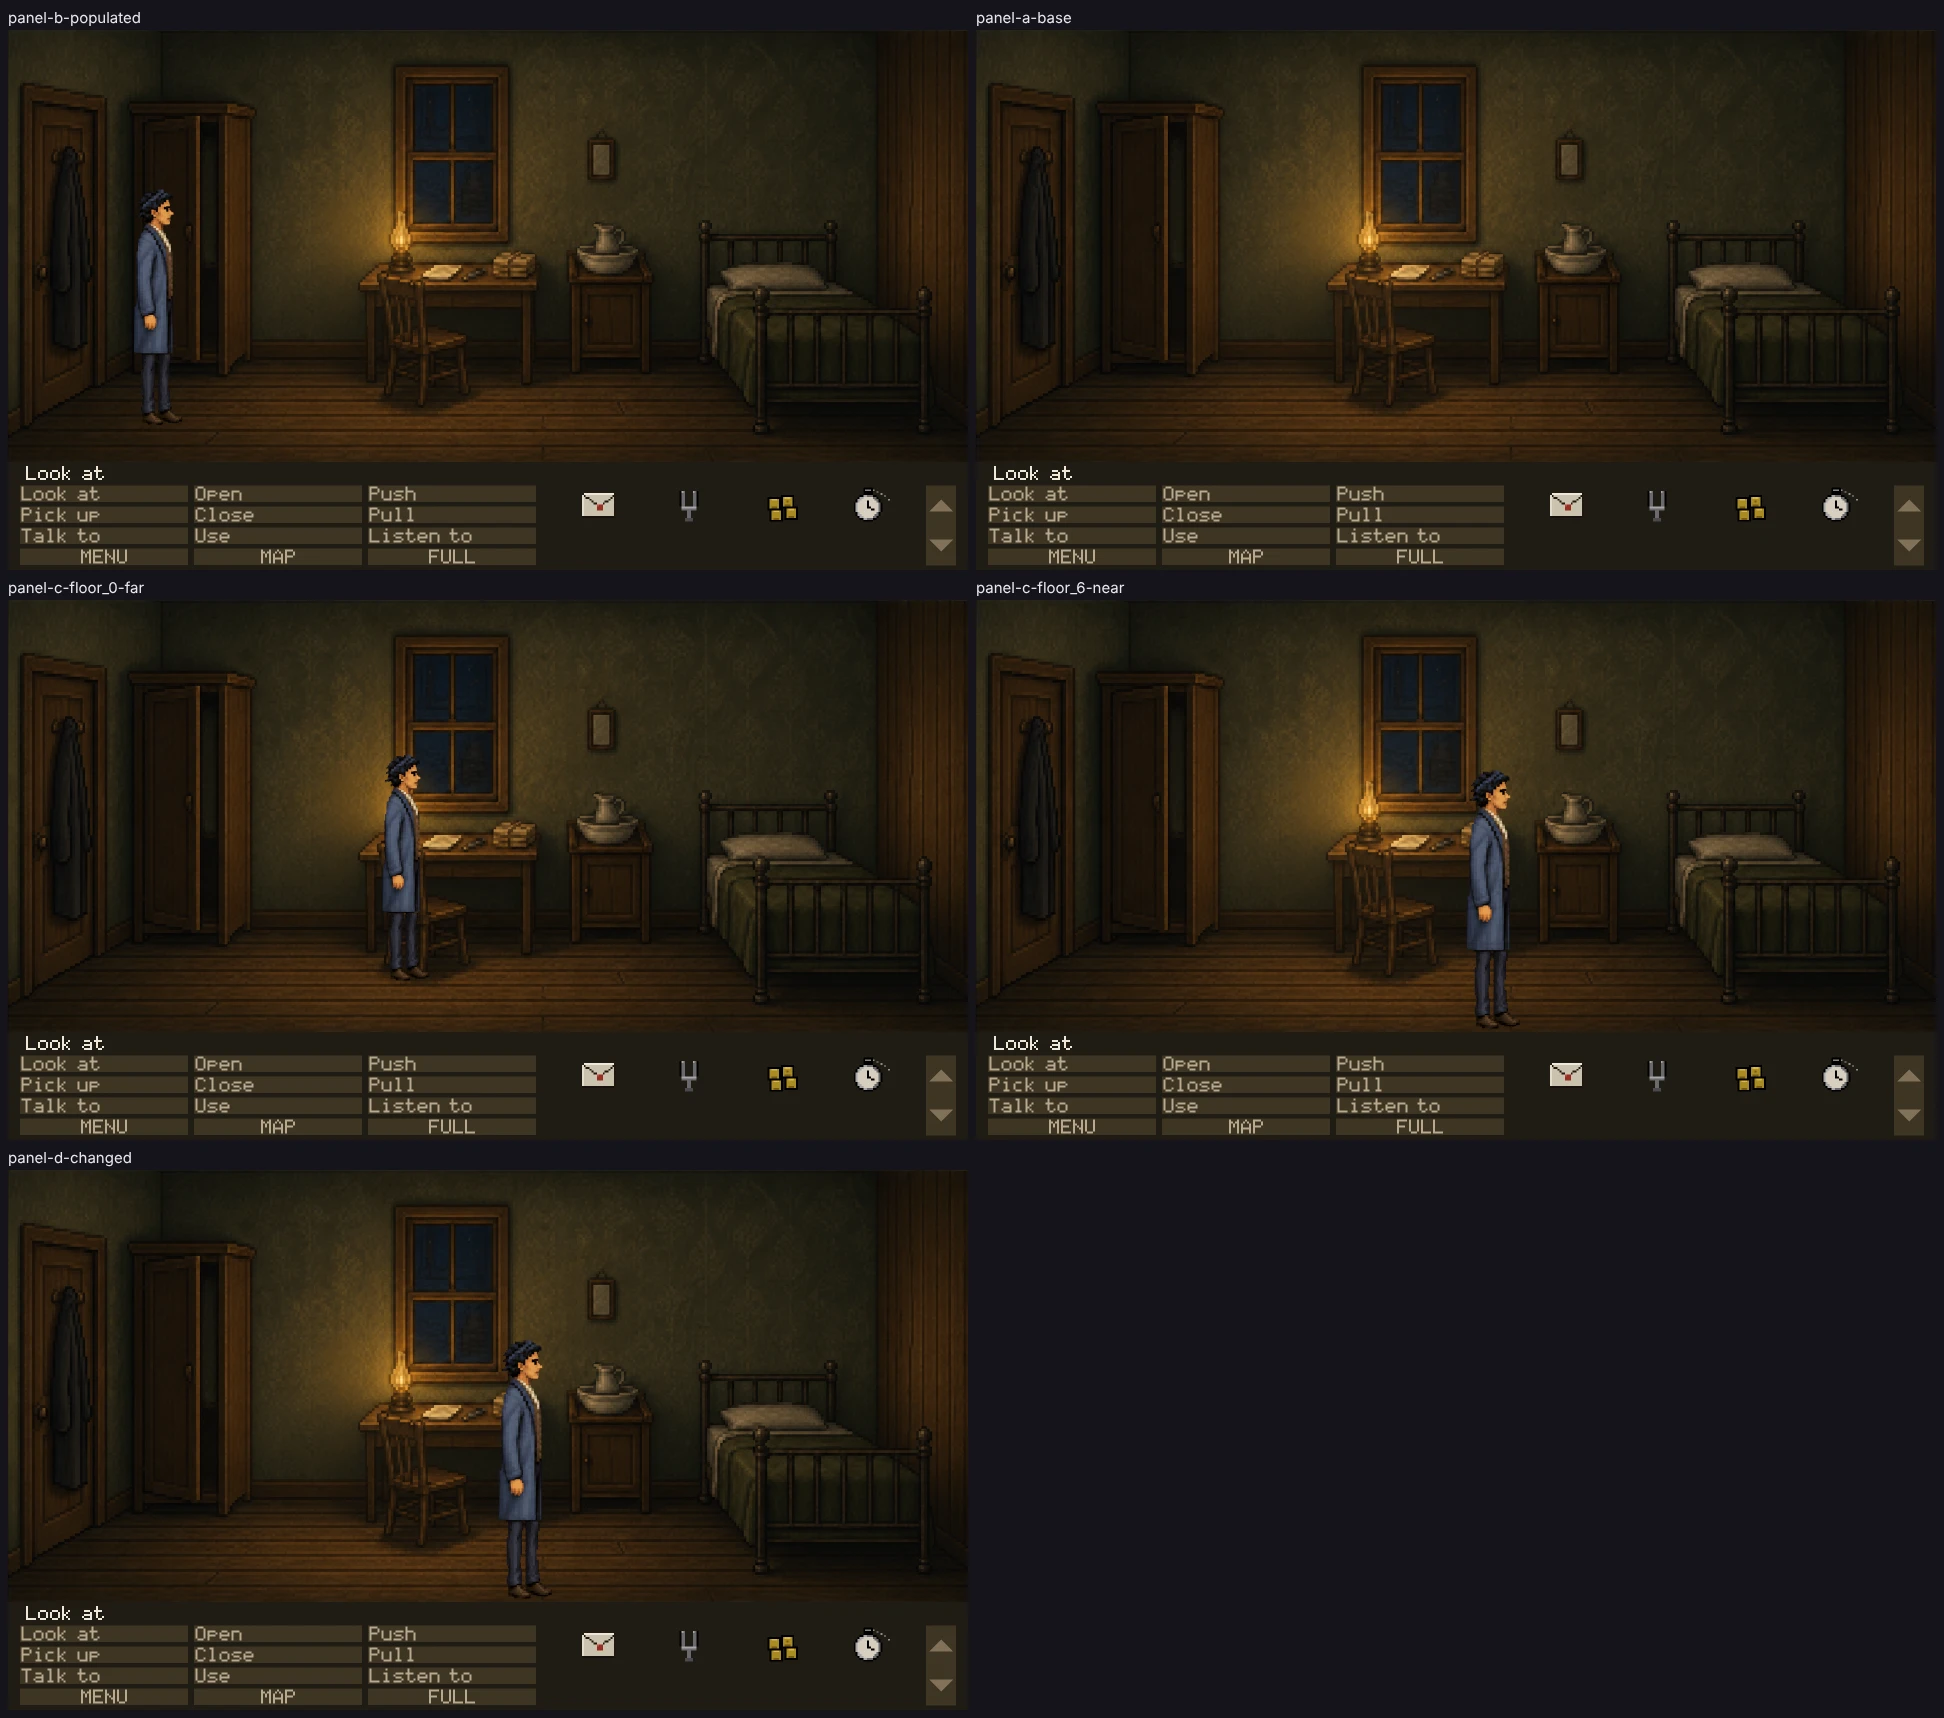
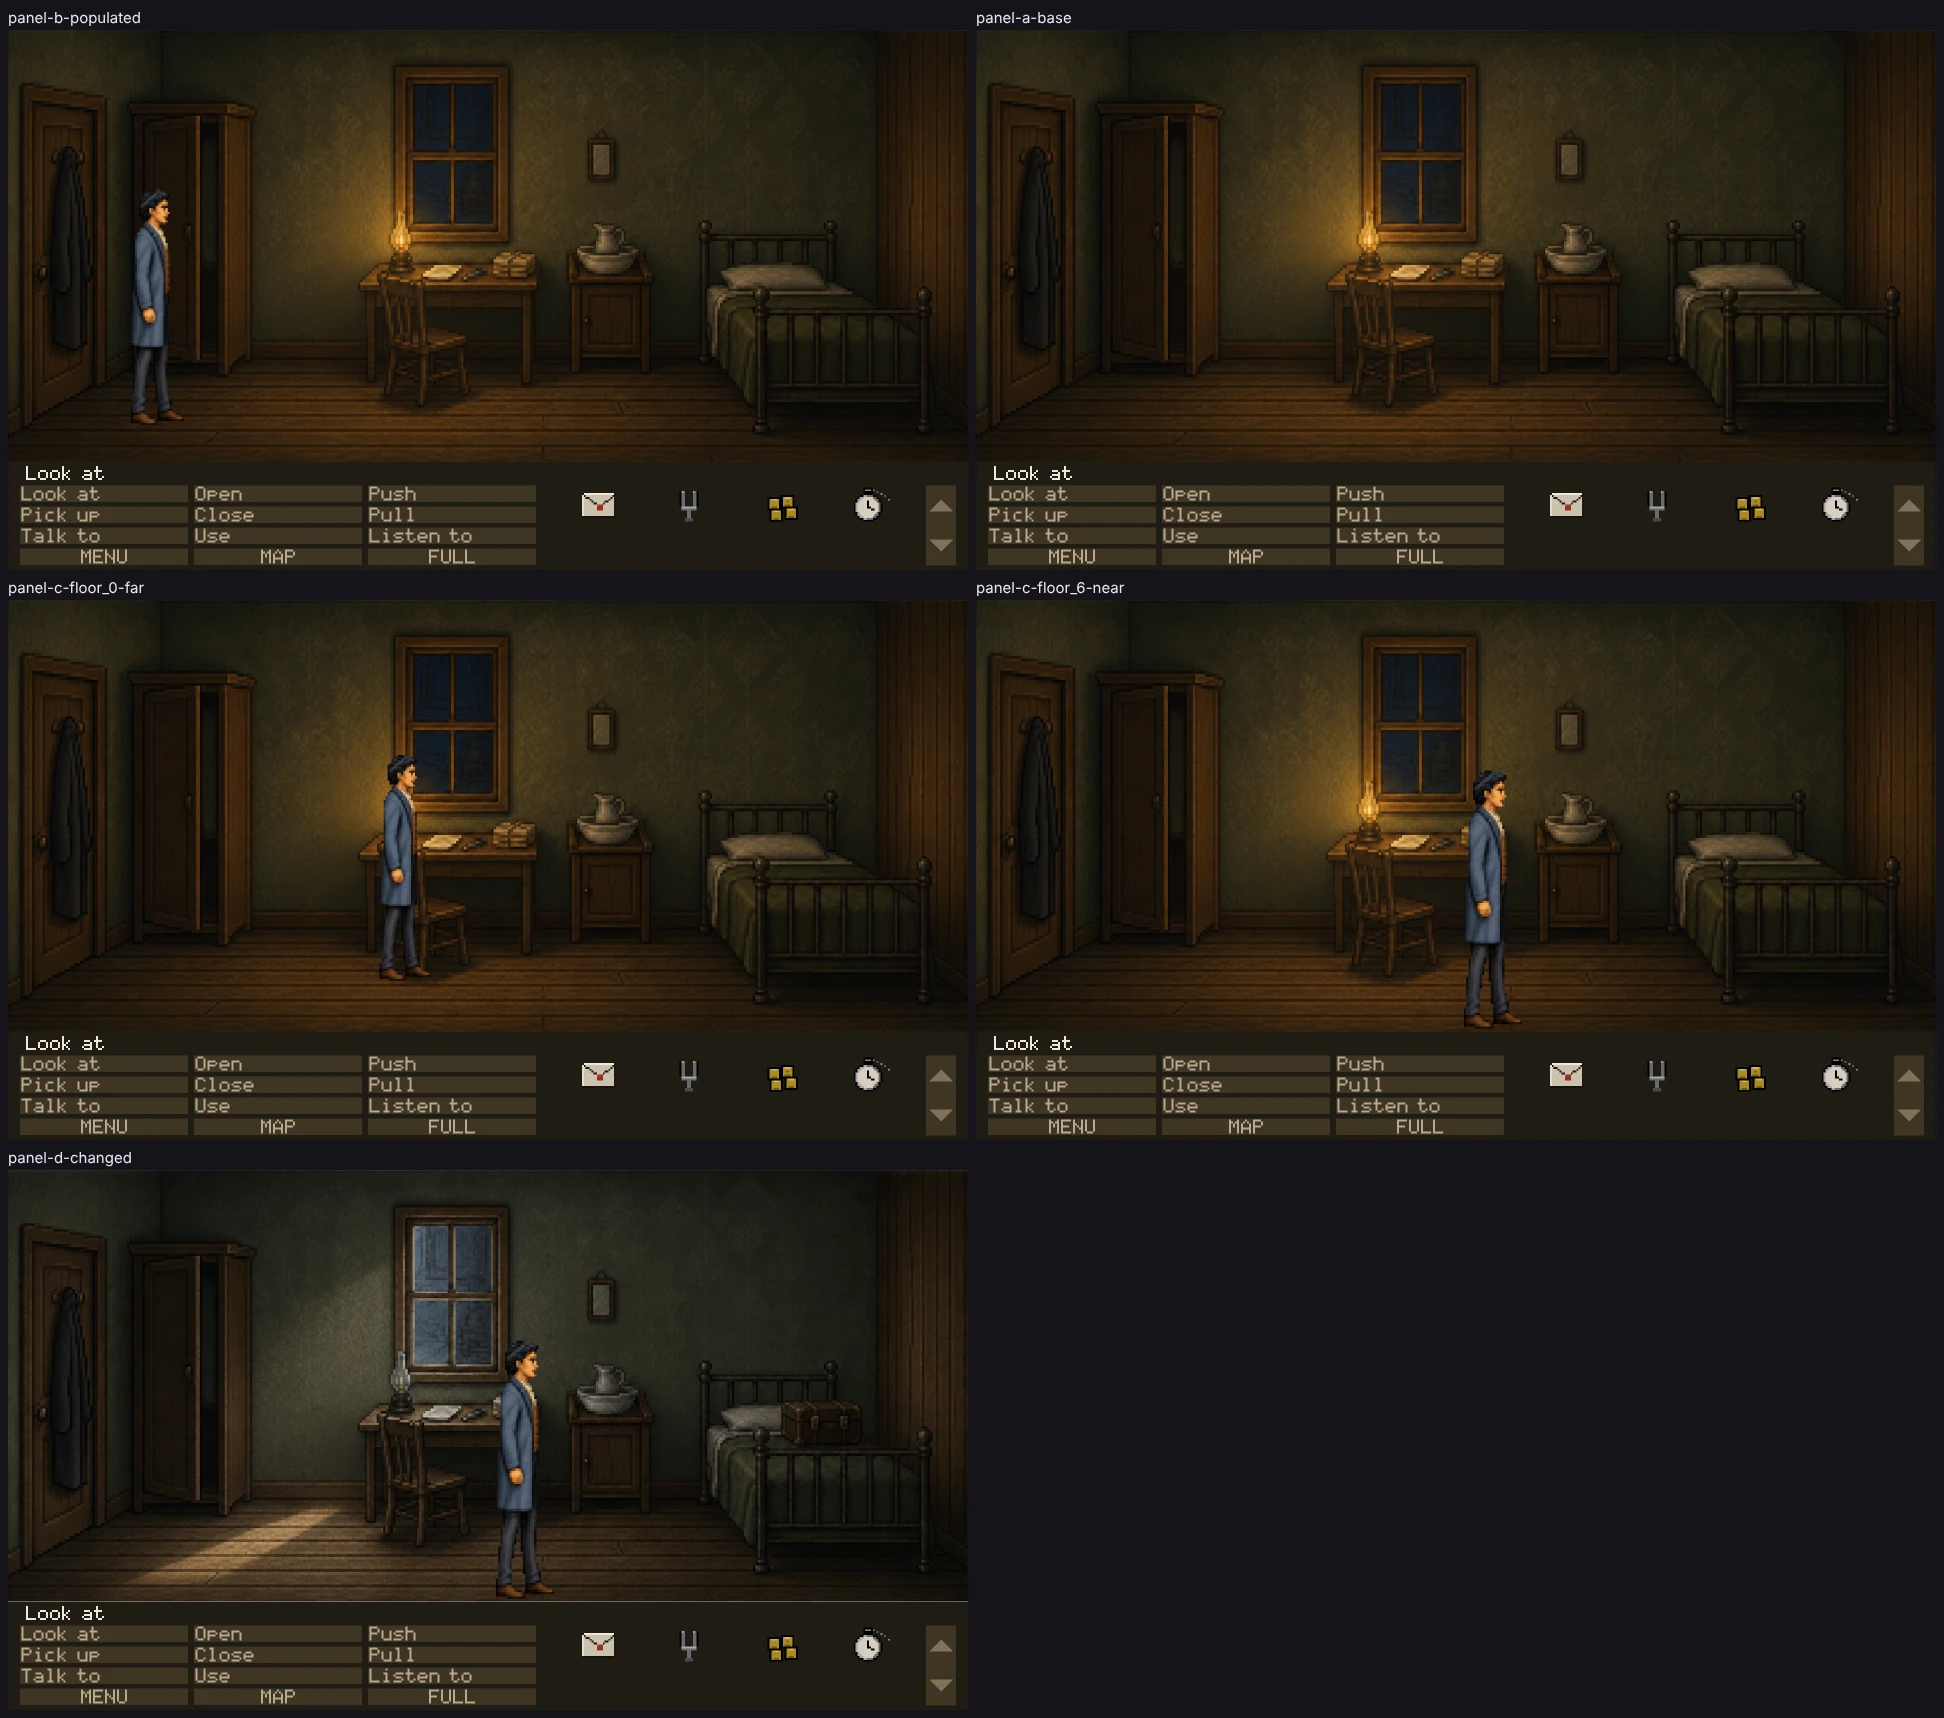
Proof: thads_room (errata 119)
Claude-Session: https://claude.ai/code/session_01FXbCurjq3gWmZKUYv89gwi

diff --git a/renders/proofs/thads-room/index.html b/renders/proofs/thads-room/index.html
@@ -17,7 +17,7 @@
 </style>
 <h1>thads_room — four-panel live-runtime proof</h1>
 <p class="lede">Every frame below is the full play area as the renderer drew it, in the running
-game, at <code>bf5fd7da</code> on <code>ccr-347d40c6-71r9f9</code>.
+game, at <code>65501fa0</code> on <code>claude/tender-sagan-buz50u</code>.
 No crop, isolated sprite or source image appears here: those are for diagnosing what a full
 frame has already shown.</p>
 <p class="lede"><b>These panels establish technical admissibility only.</b> Nothing here says the
@@ -57,7 +57,7 @@ art is good, in style, funny or approved. Only Tyler sets <code>visual_accepted<
     <img src="raw-captures-ignored/panel-d-changed.png" alt="" onerror="this.replaceWith(Object.assign(
       document.createElement('p'), { className: 'gone', textContent:
       'raw capture not committed -- regenerate with: npm run proof ' + "thads_room" }))">
-    <figcaption><b>PANEL D &mdash; principal changed state: ACT 4 (doc 04 Part Three: the only version offered). Visible consequence: none in the picture -- the frame is taken to show the room unchanged.</b>
+    <figcaption><b>PANEL D &mdash; principal changed state: ACT 4 (doc 04 Part Three: the only version offered; errata 101 B: the packed case on the bed and the morning light). Visible consequence: the morning plate -- the lamp out, pale light through the window, Thad's case strapped on the bed. The plate is chosen as Thad arrives, so the room is entered again by control from the lobby with the act set (errata 119).</b>
       <span>room thads_room &middot; camera 0 &middot;
         flags T_OPENING_SAID T_COACH_DEPARTED T_UNDERTAKER_NAMED T_HOB_CROSSING T_THAD_LEAVING T_HOB_SPOKEN T_HOB_GONE T_OPENING_DONE T_SEEN_MAIN_STREET T_TUNES_PIANOS T_CASE_DOWN T_CASE_TAKEN T_ROOM_GRANTED &middot;
         inventory letter tuning_fork four_dollars watch</span>
@@ -69,7 +69,7 @@ art is good, in style, funny or approved. Only Tyler sets <code>visual_accepted<
     <figcaption><b>PANEL C &mdash; floor_0 far, authored y761</b>
       <span>expected 451px &middot; runtime 451px &middot;
         silhouette 451px, bottom y760</span>
-      <span>art/actors/thad-idle-right/idle-05.png</span>
+      <span>art/actors/thad-idle-right/idle-00.png</span>
     </figcaption>
   </figure>
   <figure>
@@ -77,6 +77,6 @@ art is good, in style, funny or approved. Only Tyler sets <code>visual_accepted<
     <figcaption><b>PANEL C &mdash; floor_6 near, authored y857</b>
       <span>expected 516px &middot; runtime 516px &middot;
         silhouette 517px, bottom y857</span>
-      <span>art/actors/thad-idle-right/idle-03.png</span>
+      <span>art/actors/thad-idle-right/idle-04.png</span>
     </figcaption>
   </figure>
